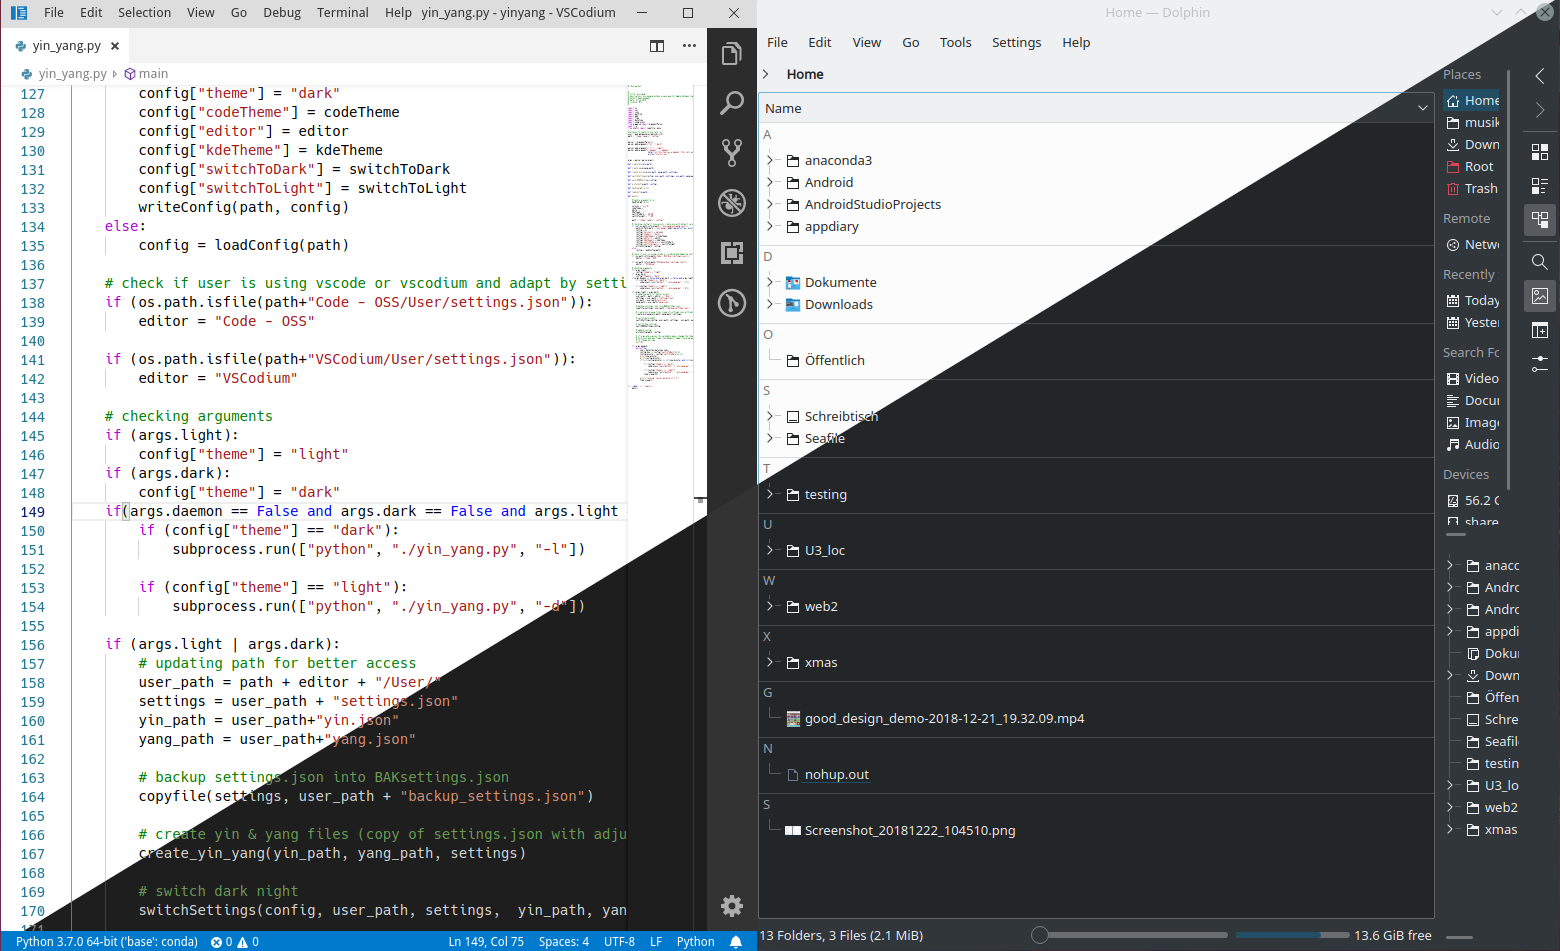
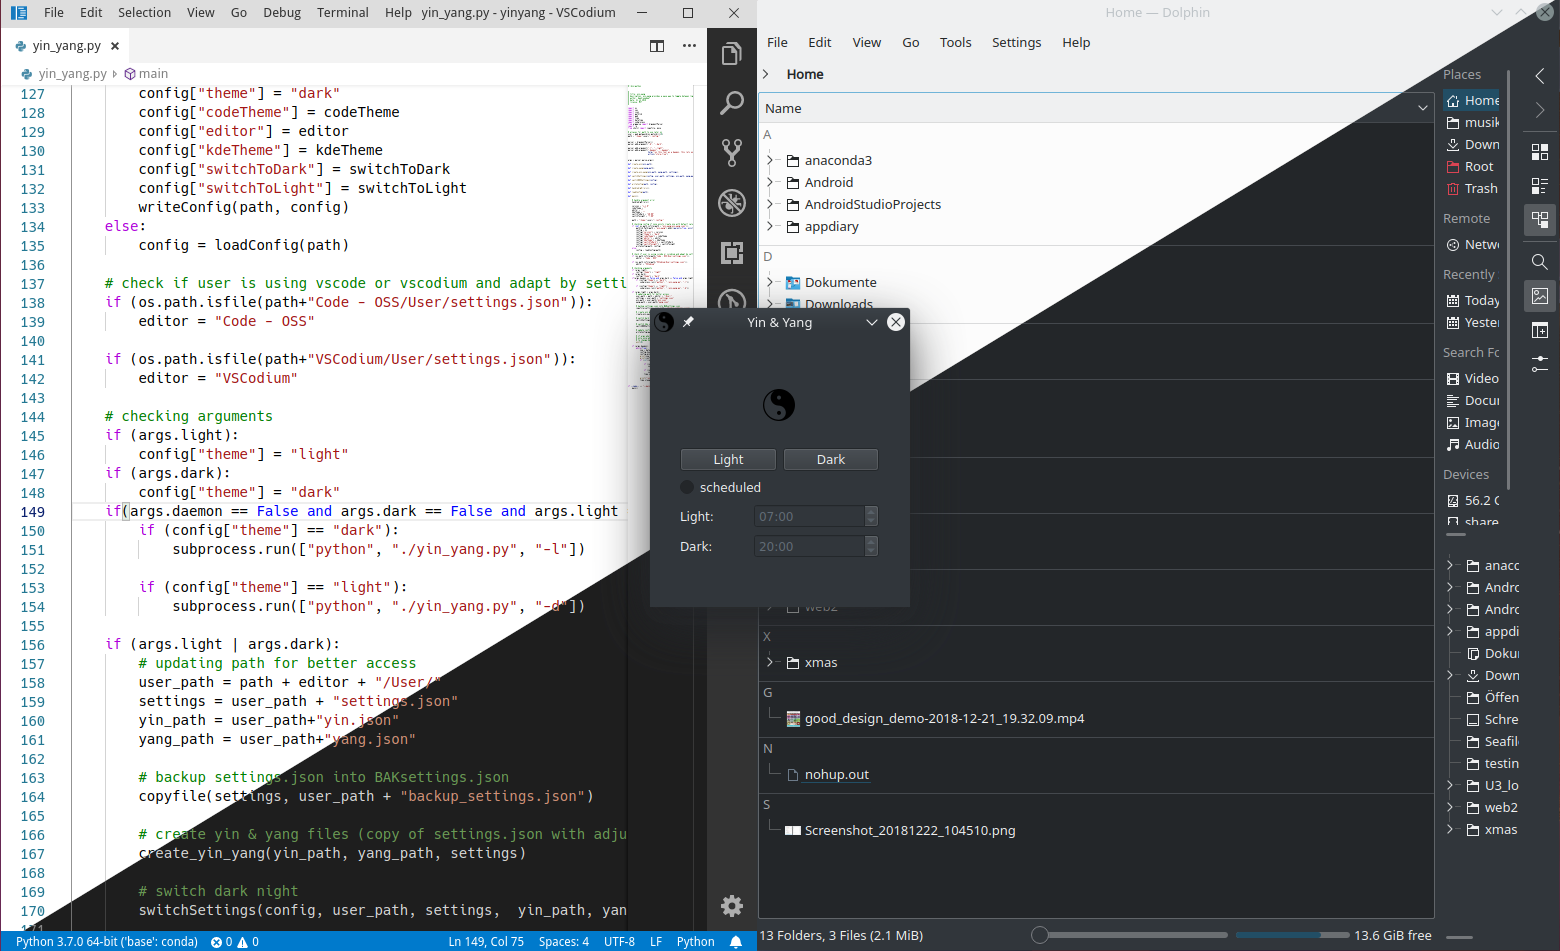
added installer

Changed region(s): [[0.4, 0.3049, 0.6154, 0.6404], [0.5538, 0.5184, 0.5846, 0.5794], [0.4923, 0.6099, 0.5231, 0.6404]]

diff --git a/bin/ui/mainwindow.py b/bin/ui/mainwindow.py
@@ -1,0 +1,94 @@
+# -*- coding: utf-8 -*-
+
+# Form implementation generated from reading ui file './ui/mainwindow.ui'
+#
+# Created by: PyQt5 UI code generator 5.11.3
+#
+# WARNING! All changes made in this file will be lost!
+
+from PyQt5 import QtCore, QtGui, QtWidgets
+
+class Ui_MainWindow(object):
+    def setupUi(self, MainWindow):
+        MainWindow.setObjectName("MainWindow")
+        MainWindow.setEnabled(True)
+        MainWindow.resize(260, 270)
+        sizePolicy = QtWidgets.QSizePolicy(QtWidgets.QSizePolicy.Fixed, QtWidgets.QSizePolicy.Fixed)
+        sizePolicy.setHorizontalStretch(0)
+        sizePolicy.setVerticalStretch(0)
+        sizePolicy.setHeightForWidth(MainWindow.sizePolicy().hasHeightForWidth())
+        MainWindow.setSizePolicy(sizePolicy)
+        MainWindow.setMinimumSize(QtCore.QSize(260, 270))
+        MainWindow.setMaximumSize(QtCore.QSize(260, 270))
+        MainWindow.setBaseSize(QtCore.QSize(260, 270))
+        icon = QtGui.QIcon()
+        icon.addPixmap(QtGui.QPixmap("bin/ui/assets/icon.png"), QtGui.QIcon.Normal, QtGui.QIcon.Off)
+        MainWindow.setWindowIcon(icon)
+        self.centralWidget = QtWidgets.QWidget(MainWindow)
+        self.centralWidget.setObjectName("centralWidget")
+        self.verticalLayoutWidget = QtWidgets.QWidget(self.centralWidget)
+        self.verticalLayoutWidget.setGeometry(QtCore.QRect(19, 20, 221, 231))
+        self.verticalLayoutWidget.setObjectName("verticalLayoutWidget")
+        self.verticalLayout = QtWidgets.QVBoxLayout(self.verticalLayoutWidget)
+        self.verticalLayout.setContentsMargins(11, 11, 11, 11)
+        self.verticalLayout.setSpacing(6)
+        self.verticalLayout.setObjectName("verticalLayout")
+        self.yinyangimg = QtWidgets.QLabel(self.verticalLayoutWidget)
+        self.yinyangimg.setText("")
+        self.yinyangimg.setTextFormat(QtCore.Qt.RichText)
+        self.yinyangimg.setPixmap(QtGui.QPixmap("bin/ui/assets/icon.png"))
+        self.yinyangimg.setAlignment(QtCore.Qt.AlignCenter)
+        self.yinyangimg.setObjectName("yinyangimg")
+        self.verticalLayout.addWidget(self.yinyangimg)
+        self.horizontalLayout = QtWidgets.QHBoxLayout()
+        self.horizontalLayout.setSpacing(6)
+        self.horizontalLayout.setObjectName("horizontalLayout")
+        self.light_push = QtWidgets.QPushButton(self.verticalLayoutWidget)
+        self.light_push.setObjectName("light_push")
+        self.horizontalLayout.addWidget(self.light_push)
+        self.dark_push = QtWidgets.QPushButton(self.verticalLayoutWidget)
+        self.dark_push.setEnabled(False)
+        self.dark_push.setObjectName("dark_push")
+        self.horizontalLayout.addWidget(self.dark_push)
+        self.verticalLayout.addLayout(self.horizontalLayout)
+        self.schedule_radio = QtWidgets.QRadioButton(self.verticalLayoutWidget)
+        self.schedule_radio.setObjectName("schedule_radio")
+        self.verticalLayout.addWidget(self.schedule_radio)
+        self.formLayout = QtWidgets.QFormLayout()
+        self.formLayout.setHorizontalSpacing(40)
+        self.formLayout.setVerticalSpacing(6)
+        self.formLayout.setObjectName("formLayout")
+        self.label = QtWidgets.QLabel(self.verticalLayoutWidget)
+        self.label.setAlignment(QtCore.Qt.AlignCenter)
+        self.label.setObjectName("label")
+        self.formLayout.setWidget(0, QtWidgets.QFormLayout.LabelRole, self.label)
+        self.label_2 = QtWidgets.QLabel(self.verticalLayoutWidget)
+        self.label_2.setObjectName("label_2")
+        self.formLayout.setWidget(1, QtWidgets.QFormLayout.LabelRole, self.label_2)
+        self.light_time = QtWidgets.QTimeEdit(self.verticalLayoutWidget)
+        self.light_time.setEnabled(False)
+        self.light_time.setTime(QtCore.QTime(8, 0, 0))
+        self.light_time.setObjectName("light_time")
+        self.formLayout.setWidget(0, QtWidgets.QFormLayout.FieldRole, self.light_time)
+        self.dark_time = QtWidgets.QTimeEdit(self.verticalLayoutWidget)
+        self.dark_time.setEnabled(False)
+        self.dark_time.setTime(QtCore.QTime(20, 0, 0))
+        self.dark_time.setObjectName("dark_time")
+        self.formLayout.setWidget(1, QtWidgets.QFormLayout.FieldRole, self.dark_time)
+        self.verticalLayout.addLayout(self.formLayout)
+        MainWindow.setCentralWidget(self.centralWidget)
+
+        self.retranslateUi(MainWindow)
+        QtCore.QMetaObject.connectSlotsByName(MainWindow)
+
+    def retranslateUi(self, MainWindow):
+        _translate = QtCore.QCoreApplication.translate
+        MainWindow.setWindowTitle(_translate("MainWindow", "Yin & Yang"))
+        self.light_push.setText(_translate("MainWindow", "Light"))
+        self.dark_push.setText(_translate("MainWindow", "Dark"))
+        self.schedule_radio.setText(_translate("MainWindow", "scheduled"))
+        self.label.setText(_translate("MainWindow", "Light:"))
+        self.label_2.setText(_translate("MainWindow", "Dark:"))
+        self.light_time.setDisplayFormat(_translate("MainWindow", "HH:mm"))
+        self.dark_time.setDisplayFormat(_translate("MainWindow", "HH:mm"))
+

diff --git a/main.py b/main.py
@@ -6,8 +6,8 @@ import signal
 from datetime import datetime
 from qtpy import QtWidgets
 from PyQt5.QtCore import QTime
-from yin_yang.ui.mainwindow import Ui_MainWindow
-from yin_yang.yin_yang import *
+from bin.ui.mainwindow import Ui_MainWindow
+from bin.yin_yang import *
 
 app = QtWidgets.QApplication(sys.argv)
 window = QtWidgets.QMainWindow()

diff --git a/bin/build.py b/bin/build.py
@@ -1,3 +1,3 @@
 #builds python qt application
 from qtpy import uic
-uic.compileUiDir("yin_yang/ui")
+uic.compileUiDir("./ui")

diff --git a/README.md b/README.md
@@ -1,6 +1,8 @@
-# Yin & Yang KDE  ![yin-yang-symbol](yin_yang/ui/assets/icon.png)
+# Yin & Yang KDE  ![yin-yang-symbol](bin/ui/assets/icon.png)
 
-Yin & Yang is a KDE tool which easily toggles between Light & Dark themes. You can configure a Hotkey to toggle between Light & Dark or set a fixed Time for automatic theme change. Yin & Yang styles all KDE and QT5 tools. On Top of that it also themes VSCode or VSCodium.
+
+
+Yin & Yang is a KDE tool which brings Auto Night-mode for KDE and VSCode. Yin & Yang styles all KDE and QT5 tools, on Top of that it also themes VSCode or VSCodium. You can activate a Theme toggle with shortcuts or let Yin-Yang toggle themes at scheduled Times.
 
 ![yin_yang_demo](screenshots/yin_yang_demo.png)
 
@@ -8,32 +10,41 @@ Yin & Yang is a KDE tool which easily toggles between Light & Dark themes. You c
 
 ## Installation
 
+#### Global (recommended) 
+
+```bash
+$ git clone git@github.com:daehruoydeef/Yin-Yang.git
+$ cd Yin-Yang
+$ sudo sh install.sh
+```
+
+
+
+#### Local 
+
+coming soon
+
 Note: on the first run **yin_yang** will backup all necessary settings and create config files for your environment. If no arguments where given on the first run it sets itself to a light theme. Once you run yin_yang again without arguments you are able to toggle between themes. 
 
 
 
+## Hotkeys
 
-
-#### Method: Snap
-
-If you are using snap to install yin_yang you will receive automatic updates on the fly.
-
-```bash
-$ snap install yin_yang
-$ yin_yang
-```
-
-#### Method: Manual
-
-```bash
-$ git clone repository
-$ cd yin_yang
-$ python main.py
-```
+Yin-Yang is about flexibility and stability, it does not provide basic shortcuts for **Dark/Light theme** toggle. It is recommended to add **Hotkeys with the KDE Hotkeys Module** found inside the **System preferences** under the **Hotkeys** section
 
 
 
+**toggle theme**
 
+![settings.png](screenshots/settings.png)
+
+
+
+## Auto updates
+
+ Yin-Yang features updates which will be fetched from this Repository as soon as a new Version is flagged with the release tag. If a update is available Yin-Yang will notify you and the next time you open Yin-Yang GUI you will be prompted to install a new Version.
+
+![yin-yang-update](screenshots/update.png)
 
 
 
@@ -41,9 +52,12 @@ $ python main.py
 
 
 
+## Requirements
 
-## Troubleshooting
+If you do not got **qtpy** or **pyqt5** installed, Yin-Yang got your back by installing the necessary requirements on the go with pip3. 
 
-If you do not have Snaps installed see here: [Installing SnapD](https://docs.snapcraft.io/installing-snapd/6735)
+* pip3 *
+* python3 *
+* qtpy
+* pyqt5
 
-If your system does not support Snaps you can Download the source files and run the ./sh install.sh
